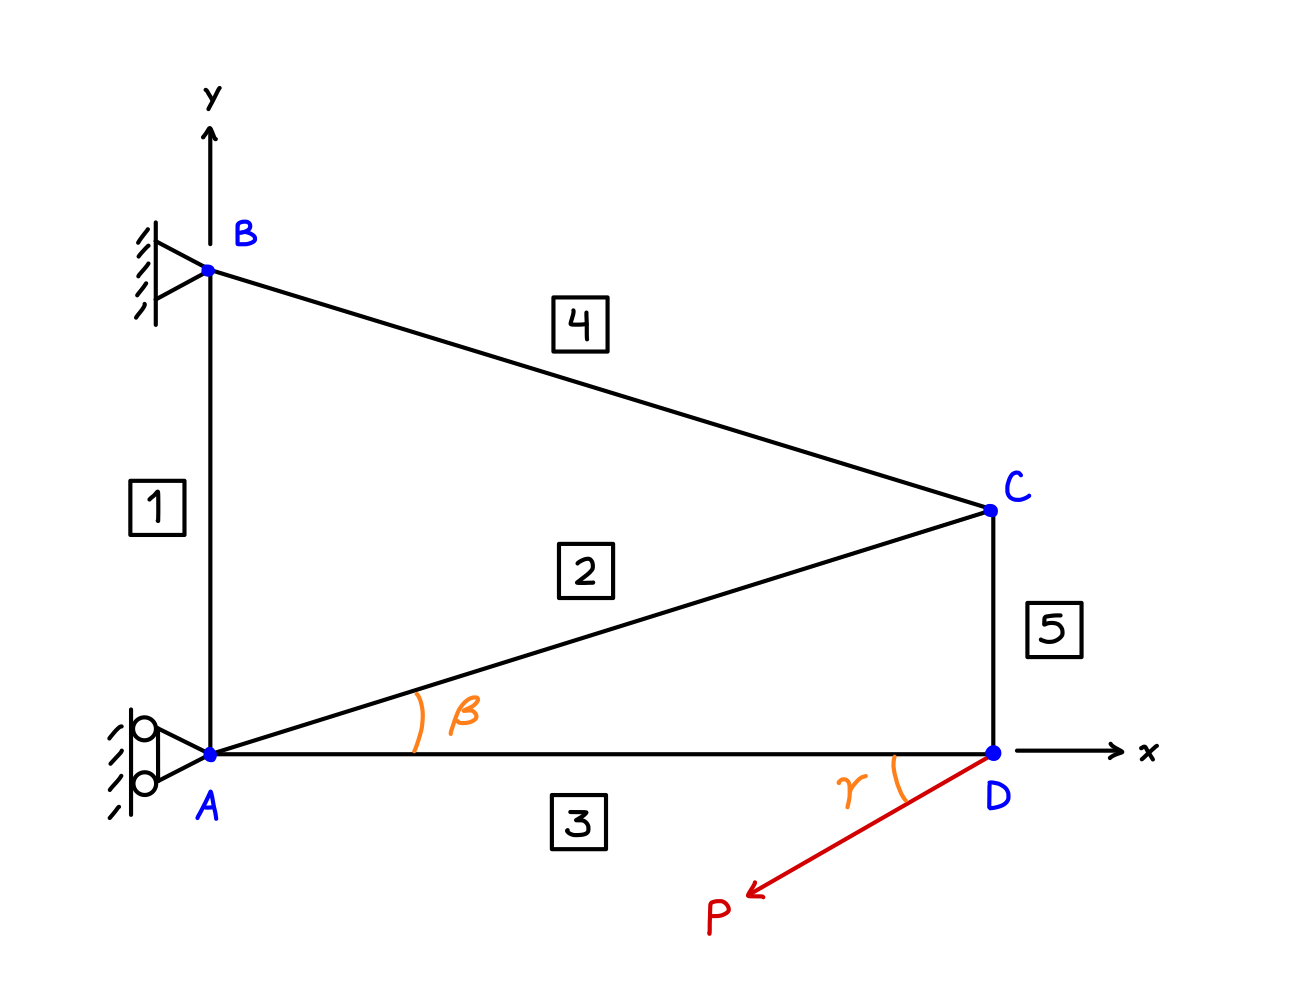
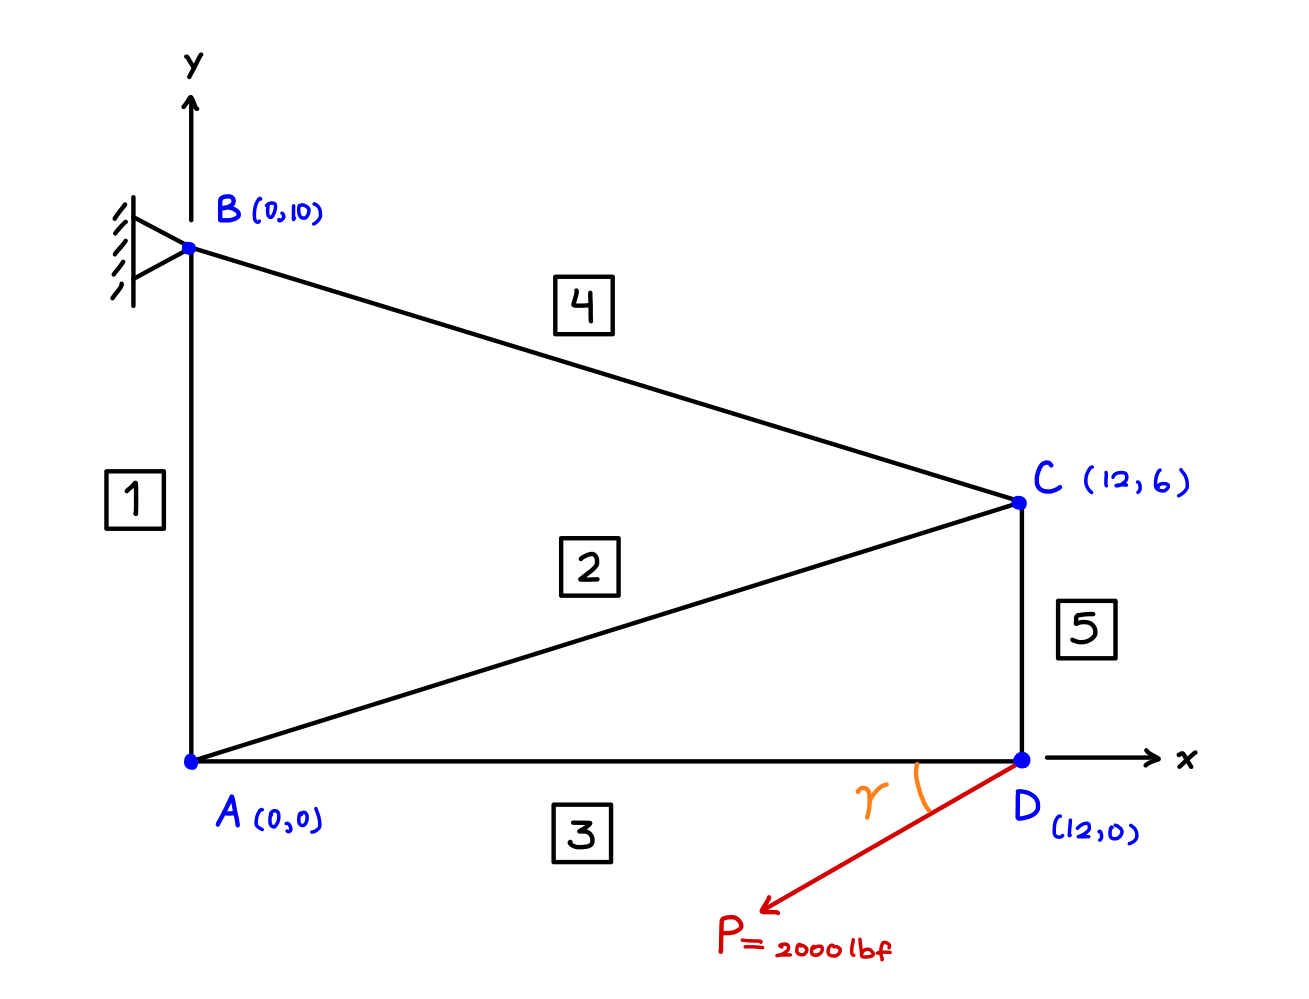
done again

diff --git a/templates/index.html b/templates/index.html
@@ -17,10 +17,30 @@
         <div
           class="w-full md:w-1/3 shadow-lg p-4 rounded text-white bg-gray-800"
         >
-          <img
-            src="{{ url_for('static', filename='images/truss.png') }}"
-            alt="Example Image"
-          />
+          <div style="position: relative">
+            <img
+              id="truss"
+              src="{{ url_for('static', filename='images/truss.png') }}"
+              alt="Truss"
+              style="position: relative; z-index: 1"
+            />
+
+            <img
+              id="roller"
+              src="{{ url_for('static', filename='images/roller.png') }}"
+              alt="Roller"
+              style="
+                position: absolute;
+                top: 244px;
+                left: 18px;
+                transform: rotate(0deg);
+                transform-origin: 100% 50%;
+                z-index: 2;
+                height: 50px;
+                witdh: 50px;
+              "
+            />
+          </div>
 
           <div class="mt-4">
             <h6 class="text-lg font-semibold text-white mb-4">
@@ -69,6 +89,17 @@
                 placeholder="Enter external force angle (0 to 360 degrees)"
               />
 
+              <label for="force_magnitude" class="block font-semibold mb-2">
+                Force Magnitude(lbf)
+              </label>
+              <input
+                id="force_magnitude"
+                type="number"
+                step="any"
+                class="w-full border border-gray-300 p-2 rounded mb-4 text-black"
+                placeholder="Enter external force magnitude (lbf)"
+              />
+
               <label for="roller_angle" class="block font-semibold mb-2">
                 Roller Angle (β)
               </label>
@@ -106,7 +137,11 @@
     </div>
 
     <script>
-      const analyzeTruss = async (force_angle, roller_angle) => {
+      const analyzeTruss = async (
+        force_angle,
+        roller_angle,
+        force_magnitude
+      ) => {
         force_angle = force_angle + 180;
         const response = await fetch("/analyze", {
           method: "POST",
@@ -116,6 +151,7 @@
           body: JSON.stringify({
             force_angle: force_angle,
             roller_angle: roller_angle,
+            force_magnitude: force_magnitude,
           }),
         });
 
@@ -213,6 +249,12 @@
             `;
 
           plotTruss(data.original_nodes, data.deformed_nodes, data.elements);
+
+          const roller = document.getElementById("roller");
+
+          const rotation_angle = 360 - roller_angle;
+
+          roller.style.transform = `rotate(${rotation_angle}deg)`;
         } else {
           document.getElementById("results").innerHTML = `
               <p class="text-red-500">Error: Unable to process your request.</p>
@@ -281,6 +323,10 @@
         const roller_angle = parseFloat(
           document.getElementById("roller_angle").value
         );
+
+        const force_magnitude = parseFloat(
+          document.getElementById("force_magnitude").value
+        );
         if (
           isNaN(force_angle) ||
           isNaN(roller_angle) ||
@@ -294,13 +340,13 @@
           );
           return;
         }
-        analyzeTruss(force_angle, roller_angle);
+        analyzeTruss(force_angle, roller_angle, force_magnitude);
       });
 
       window.onload = () => {
         const defaultForceAngle = 60;
         const defaultRollerAngle = 30;
-        analyzeTruss(defaultForceAngle, defaultRollerAngle);
+        analyzeTruss(defaultForceAngle, defaultRollerAngle, 2000);
       };
     </script>
   </body>

diff --git a/calculate_truss.py b/calculate_truss.py
@@ -1,7 +1,7 @@
 import numpy as np
 import matplotlib.pyplot as plt
 
-def analyze_truss(force_angle = 240,  roller_angle = 30):
+def analyze_truss(force_angle = 240,  roller_angle = 30, force_magnitude=2000.0):
 
     force_node = 'D'
     fixed_nodes = ['A', 'B']
@@ -27,16 +27,11 @@ def analyze_truss(force_angle = 240,  roller_angle = 30):
         5: ['C', 'D']
     }
 
-    fixed_element_lengths = {
-        1: float(10),
-        2: 12/np.cos(np.deg2rad(roller_angle)),
-        3: float(12)
-    }
-
-    fixed_nodes_coords = {
+    nodes = {
         'A': np.array([0, 0]),
         'B': np.array([0, 10]),
-        'D': np.array([12, 0])
+        'C': np.array([12, 6]),
+        'D': np.array([12, 0]),
     }
 
     
@@ -44,22 +39,15 @@ def analyze_truss(force_angle = 240,  roller_angle = 30):
     force_angle = np.deg2rad(force_angle)
 
     external_forces = {
-        force_node : np.array([np.cos(force_angle)* 2000, np.sin(force_angle)*2000])  
+        force_node : np.array([np.cos(force_angle)* force_magnitude, np.sin(force_angle)*force_magnitude])  
     }
 
 
-    element_lengths = fixed_element_lengths
-
-    element_lengths[5] = element_lengths[3] * np.tan(roller_angle)
-    element_lengths[4] = np.sqrt(element_lengths[1]**2 + element_lengths[2]**2 - 2* element_lengths[1]*element_lengths[2]*np.cos(np.pi/2 - roller_angle))
-
-    nodes = fixed_nodes_coords
-
-    nodes['C'] = np.array([element_lengths[3], element_lengths[5]])
-
+    element_lengths = {}
     element_angles = {}
     for element, (node1, node2) in elements.items():
         delta = nodes[node2] - nodes[node1]
+        element_lengths[element] = np.linalg.norm(delta)
         element_angles[element] = np.arctan2(delta[1], delta[0])
 
 
@@ -104,13 +92,22 @@ def analyze_truss(force_angle = 240,  roller_angle = 30):
         K_global[np.ix_(dofs, dofs)] += element_stiffness_matrices[element]
 
     # Apply boundary conditions with roller support
-    fixed_dofs = []
-    for node in fixed_nodes:
-        dof = 2 * list(nodes).index(node)
-        fixed_dofs.append(dof)  # Fix only x-translation for roller support
-        if node != fixed_nodes[0]:  # Fix both DOFs for other fixed nodes
-            fixed_dofs.append(dof + 1)
+   
+    fixed_dofs = [2, 3]  # Fix y-translation and x-translation at node B
+
+    # Calculate the angle perpendicular to the slider
+    constraint_angle = roller_angle + np.pi/2 
+
+    # Construct the transformation matrix for the constraint
+    T = np.array([
+        [np.cos(constraint_angle), np.sin(constraint_angle)],
+        [-np.sin(constraint_angle), np.cos(constraint_angle)]
+    ])
+
+    # Apply the transformation to the first two rows and columns of K_global
+    K_global[:2, :2] = T @ K_global[:2, :2] @ T.T
     free_dofs = np.setdiff1d(np.arange(degrees_of_freedom), fixed_dofs)
+
 
     # Create reduced stiffness matrix and force vector
     K_reduced = K_global[np.ix_(free_dofs, free_dofs)]
@@ -149,3 +146,4 @@ def analyze_truss(force_angle = 240,  roller_angle = 30):
     deformed_nodes = {node: coords + U_global[2*i:2*i+2] for i, (node, coords) in enumerate(nodes.items())}
 
     return U_global, reaction_forces, element_stresses, nodes, deformed_nodes 
+

diff --git a/server.py b/server.py
@@ -10,24 +10,21 @@ def index():
 
 @app.route("/analyze", methods=["POST"])
 def analyze():
-    # Extract JSON data from the request
     data = request.json
     force_angle = data.get("force_angle")
     roller_angle = data.get("roller_angle")
+    force_magnitude = data.get("force_magnitude")
 
-    # Input validation
     if force_angle is None or roller_angle is None:
         return jsonify({"error": "Both force_angle and roller_angle are required."}), 400
     
     if not isinstance(force_angle, (float, int)) or not isinstance(roller_angle, (float, int)):
         return jsonify({"error": "Invalid input types. Only numeric values are allowed."}), 400
 
-    # Call the truss analysis logic
-    U, R, S, nodes, deformed_nodes = analyze_truss(force_angle=force_angle, roller_angle=roller_angle)
+    U, R, S, nodes, deformed_nodes = analyze_truss(force_angle=force_angle, roller_angle=roller_angle, force_magnitude=force_magnitude)
 
-    # Convert `U` to a dictionary (indexed by node names) for JSON serialization
     nodal_displacements = {
-        node: U[2*i:2*i+2] # Convert each displacement subset to a list
+        node: U[2*i:2*i+2]
         for i, node in enumerate(['A', 'B', 'C', 'D'])
     }
 
